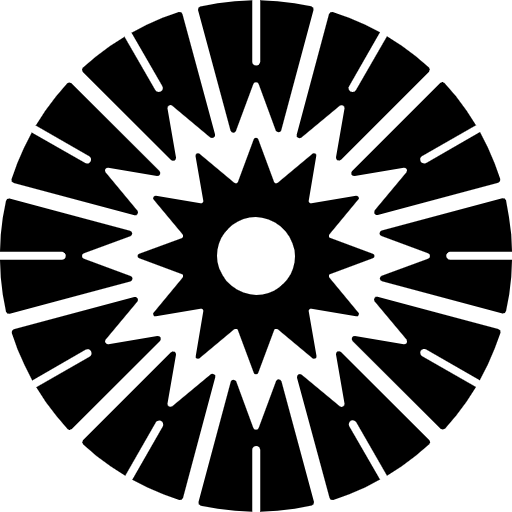
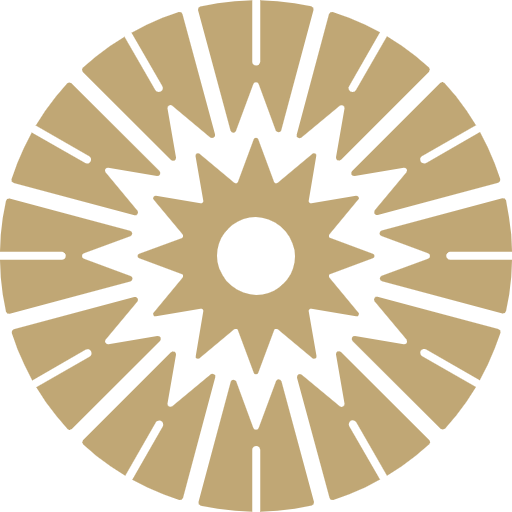
change color

diff --git a/src/components/ui/icons/site-logo.svelte b/src/components/ui/icons/site-logo.svelte
@@ -1,6 +1,6 @@
 <svg
   xmlns="http://www.w3.org/2000/svg"
-  fill="#eceadd"
+  fill="currentColor"
   viewBox="0 0 1000 188.45"
   {...$$props}
 >
@@ -34,56 +34,56 @@
   <path
     d="M953.38,22.93H1000V38.84H969.52V54.28H1000V69.89H969.52V92.36H1000v16H953.38Z"
   />
+  <!-- fill="#c0a775" -->
   <path
-    fill="#c0a775"
     d="M366.35,69.73l9.74-3.59a.55.55,0,0,0,0-1l-9.74-3.59a.55.55,0,0,1-.23-.87l6.63-8a.55.55,0,0,0-.51-.89L362,53.53a.54.54,0,0,1-.63-.63l1.75-10.22a.55.55,0,0,0-.9-.52l-8,6.62a.55.55,0,0,1-.87-.23l-3.6-9.72a.55.55,0,0,0-1,0l-3.6,9.72a.55.55,0,0,1-.87.23l-8-6.62a.55.55,0,0,0-.9.52l1.75,10.22a.54.54,0,0,1-.63.63l-10.24-1.75a.55.55,0,0,0-.52.89l6.64,8a.56.56,0,0,1-.23.87l-9.74,3.59a.55.55,0,0,0,0,1l9.74,3.59a.56.56,0,0,1,.23.88l-6.64,8a.55.55,0,0,0,.52.89l10.24-1.75a.55.55,0,0,1,.63.64l-1.75,10.22a.55.55,0,0,0,.9.51l8-6.62a.55.55,0,0,1,.87.23l3.6,9.73a.55.55,0,0,0,1,0l3.6-9.73a.55.55,0,0,1,.87-.23l8,6.62a.55.55,0,0,0,.9-.51l-1.75-10.22a.55.55,0,0,1,.63-.64l10.24,1.75a.55.55,0,0,0,.51-.89l-6.63-8A.57.57,0,0,1,366.35,69.73Zm-21.46,3.6A9,9,0,0,1,341.53,70a8.82,8.82,0,0,1,12.08-12A9,9,0,0,1,357,61.28a8.82,8.82,0,0,1-12.08,12Z"
   />
+  <!-- fill="#c0a775" -->
   <path
-    fill="#c0a775"
     d="M393,65.58a.92.92,0,0,1,.92-.92h14.17a59,59,0,0,0-1.38-11.82.69.69,0,0,0-.85-.5l-27.7,7.43a.67.67,0,0,0-.06,1.27L388.77,65a.67.67,0,0,1,0,1.26l-10.63,3.92a.67.67,0,0,0,.06,1.27l27.65,7.38a.68.68,0,0,0,.83-.51,59,59,0,0,0,1.38-11.82H393.88a.92.92,0,0,1-.92-.92Z"
   />
+  <!-- fill="#c0a775" -->
   <path
-    fill="#c0a775"
     d="M320.44,70.2l-10.7-4a.66.66,0,0,1,0-1.25l10.63-3.92a.67.67,0,0,0-.06-1.28l-27.65-7.37a.67.67,0,0,0-.83.5,58.88,58.88,0,0,0-1.38,11.73h14.18a.92.92,0,1,1,0,1.84H290.45a59.86,59.86,0,0,0,1.39,11.91.68.68,0,0,0,.84.5l27.71-7.43a.67.67,0,0,0,.05-1.28Z"
   />
+  <!-- fill="#c0a775" -->
   <path
-    fill="#c0a775"
     d="M343.4,36.8a.67.67,0,0,0,1.27.05l4-10.69a.66.66,0,0,1,1.25,0l3.93,10.62a.67.67,0,0,0,1.27-.06l7.39-27.61a.68.68,0,0,0-.51-.84A59.73,59.73,0,0,0,350.22,6.9V21a.92.92,0,0,1-1.84,0V6.9a60.06,60.06,0,0,0-11.93,1.39.68.68,0,0,0-.5.84l7.44,27.67Z"
   />
+  <!-- fill="#c0a775" -->
   <path
-    fill="#c0a775"
     d="M355.11,94.45a.67.67,0,0,0-1.27-.06l-4,10.7a.66.66,0,0,1-1.25,0L344.7,94.47a.67.67,0,0,0-1.27.06L336,122.14a.69.69,0,0,0,.51.84,58.42,58.42,0,0,0,11.83,1.36v-14.2a.92.92,0,0,1,1.84,0v14.2A59.9,59.9,0,0,0,362.06,123a.68.68,0,0,0,.5-.84l-7.44-27.67Z"
   />
+  <!-- fill="#c0a775" -->
   <path
-    fill="#c0a775"
     d="M368.76,87.67a.67.67,0,0,0-1.13.59l1.93,11.23a.67.67,0,0,1-1.09.63l-8.71-7.24a.67.67,0,0,0-1.08.69l7.43,27.61a.68.68,0,0,0,.86.47A58.1,58.1,0,0,0,377.75,117l-7.06-12.25a.92.92,0,1,1,1.59-.91l7.06,12.25a58.55,58.55,0,0,0,9.69-7.2.68.68,0,0,0,0-1L368.76,87.67Z"
   />
+  <!-- fill="#c0a775" -->
   <path
-    fill="#c0a775"
     d="M329.75,43.58a.67.67,0,0,0,1.13-.59L329,31.76a.67.67,0,0,1,1.09-.63l8.71,7.24a.67.67,0,0,0,1.08-.69L332.4,10.07a.68.68,0,0,0-.86-.47,57.72,57.72,0,0,0-10.89,4.72l7.08,12.28a.91.91,0,0,1-.33,1.25,1,1,0,0,1-.46.12.91.91,0,0,1-.8-.46l-7.08-12.27a58.76,58.76,0,0,0-9.58,7.14.68.68,0,0,0,0,1l20.29,20.23Z"
   />
+  <!-- fill="#c0a775" -->
   <path
-    fill="#c0a775"
     d="M371.91,47.27l11.26-1.92a.66.66,0,0,1,.62,1.08l-7.24,8.71a.67.67,0,0,0,.69,1.07l27.64-7.42a.68.68,0,0,0,.47-.86,58.3,58.3,0,0,0-4.66-10.77l-12.34,7.1a.93.93,0,0,1-.46.12.91.91,0,0,1-.79-.46.92.92,0,0,1,.34-1.25l12.33-7.1a58.87,58.87,0,0,0-7.21-9.67.68.68,0,0,0-1,0L371.32,46.15a.66.66,0,0,0,.59,1.12Z"
   />
+  <!-- fill="#c0a775" -->
   <path
-    fill="#c0a775"
     d="M326.59,84,315.34,85.9a.67.67,0,0,1-.63-1.08L322,76.11a.67.67,0,0,0-.69-1.07l-27.65,7.42a.68.68,0,0,0-.47.86,58.47,58.47,0,0,0,4.72,10.87l12.23-7a.92.92,0,0,1,1.25.34.9.9,0,0,1-.33,1.25l-12.23,7a58.74,58.74,0,0,0,7.15,9.57.68.68,0,0,0,1,0l20.26-20.26a.67.67,0,0,0-.59-1.13Z"
   />
+  <!-- fill="#c0a775" -->
   <path
-    fill="#c0a775"
     d="M404.91,82.37,377.18,75a.67.67,0,0,0-.68,1.08l7.29,8.77a.66.66,0,0,1-.62,1.08L372,84a.67.67,0,0,0-.58,1.13l20.24,20.19a.7.7,0,0,0,1,0,59.45,59.45,0,0,0,7.11-9.56l-12.31-7.06a.92.92,0,1,1,.91-1.59l12.32,7.06a58.09,58.09,0,0,0,4.72-10.9.69.69,0,0,0-.48-.86Z"
   />
+  <!-- fill="#c0a775" -->
   <path
-    fill="#c0a775"
     d="M293.6,48.88l27.73,7.4a.66.66,0,0,0,.68-1.07l-7.29-8.77a.67.67,0,0,1,.62-1.09l11.18,1.91a.66.66,0,0,0,.58-1.13L306.86,26a.68.68,0,0,0-1,0,59.48,59.48,0,0,0-7.2,9.7l12.27,7a.92.92,0,0,1,.34,1.25.94.94,0,0,1-.8.46.84.84,0,0,1-.46-.13l-12.27-7A58.91,58.91,0,0,0,293.12,48a.69.69,0,0,0,.48.86Z"
   />
+  <!-- fill="#c0a775" -->
   <path
-    fill="#c0a775"
     d="M359.69,38.42l8.78-7.29a.67.67,0,0,1,1.09.63l-1.92,11.16a.67.67,0,0,0,1.14.58L389,23.28a.69.69,0,0,0,0-1,59.74,59.74,0,0,0-9.63-7.14l-7.1,12.35a.93.93,0,0,1-.8.46,1,1,0,0,1-.46-.12.92.92,0,0,1-.33-1.25l7.09-12.35a58.53,58.53,0,0,0-10.86-4.68.69.69,0,0,0-.86.48l-7.41,27.68a.67.67,0,0,0,1.08.69Z"
   />
+  <!-- fill="#c0a775" -->
   <path
-    fill="#c0a775"
     d="M338.82,92.83,330,100.12a.67.67,0,0,1-1.09-.63l1.92-11.16a.67.67,0,0,0-1.14-.58L309.53,108a.68.68,0,0,0,0,1,58.94,58.94,0,0,0,9.65,7.15l7-12.2a.92.92,0,0,1,1.59.91l-7,12.2a58.85,58.85,0,0,0,10.83,4.66.68.68,0,0,0,.86-.47l7.41-27.69a.68.68,0,0,0-1.08-.69Z"
   />
   <path

diff --git a/src/components/header/index.svelte b/src/components/header/index.svelte
@@ -68,7 +68,7 @@
   <div class="container flex justify-between items-end">
     <a href="/" class="outline-none">
       <SiteLogo class={"hidden lg:inline-block h-10 xl:h-14 "} />
-      <SiteLogoSmall class="text-3xl md:text-5xl text-accent lg:hidden" />
+      <SiteLogoSmall class="text-3xl md:text-5xl lg:hidden" />
     </a>
 
     <nav class="hidden lg:flex gap-8 items-center leading-none -mb-[6px]">

diff --git a/src/components/ui/icons/site-logo-sm.svelte b/src/components/ui/icons/site-logo-sm.svelte
@@ -1,6 +1,6 @@
 <svg
   xmlns="http://www.w3.org/2000/svg"
-  fill="#eceadd"
+  fill="currentColor"
   viewBox="0 0 500.68 500"
   width="1em"
   height="1em"
